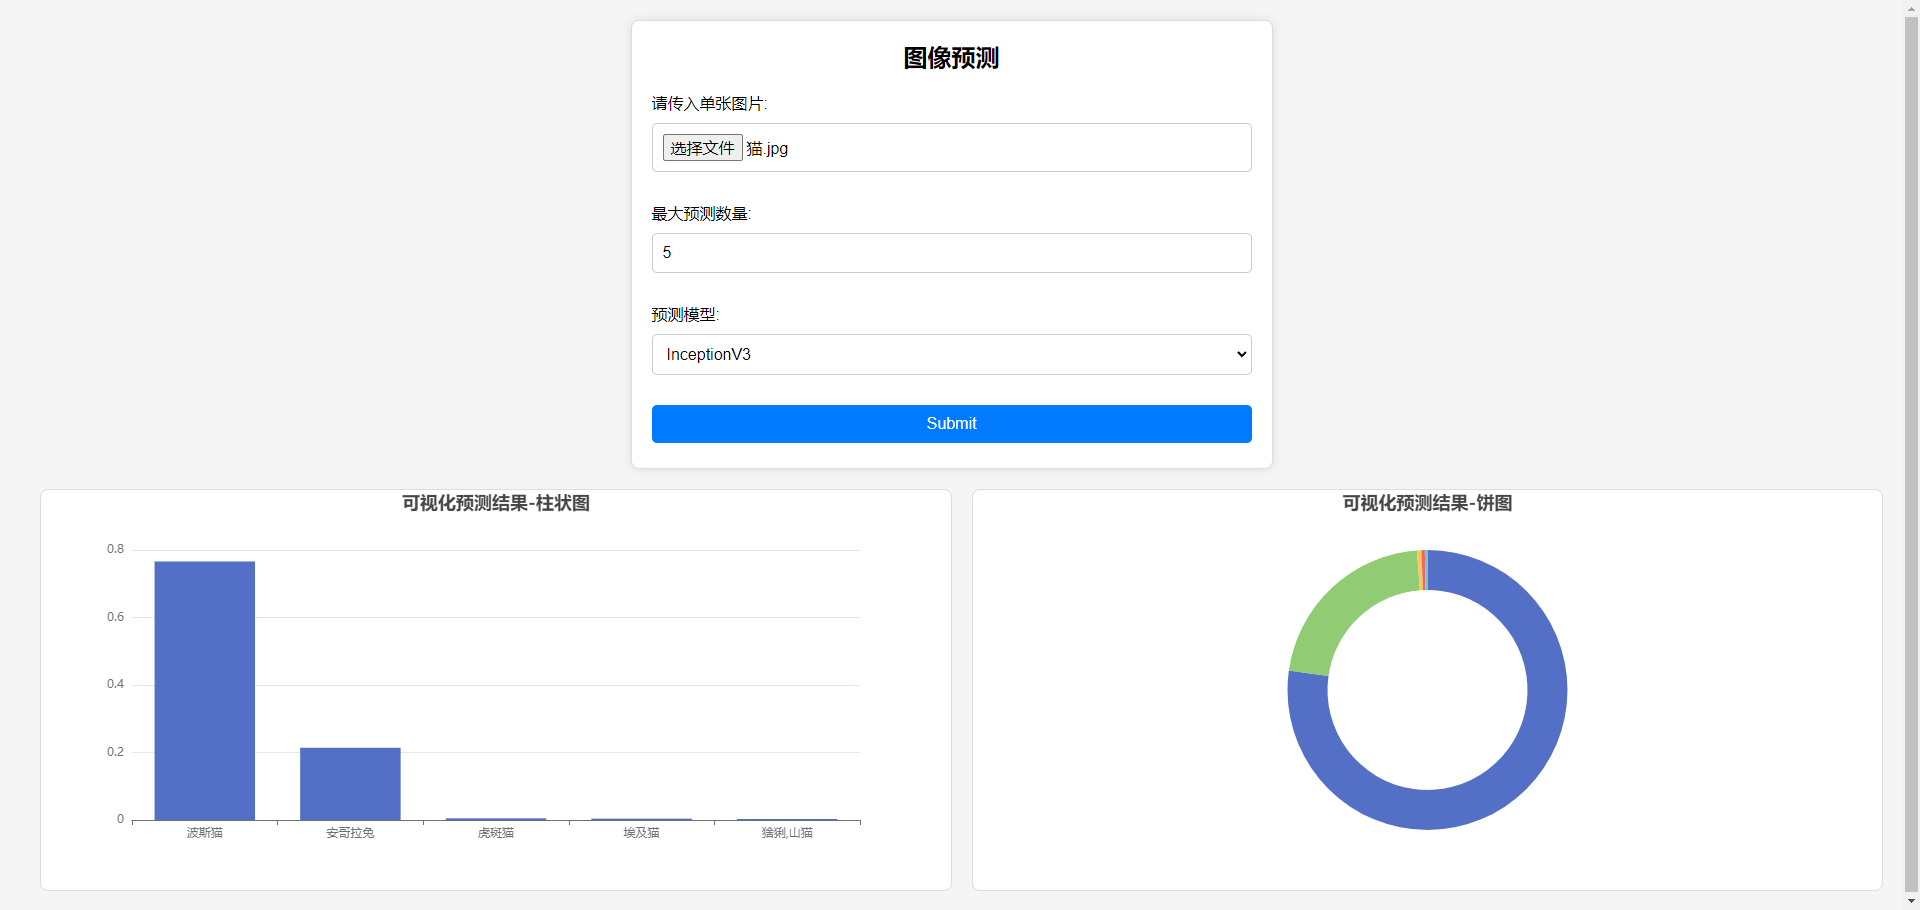
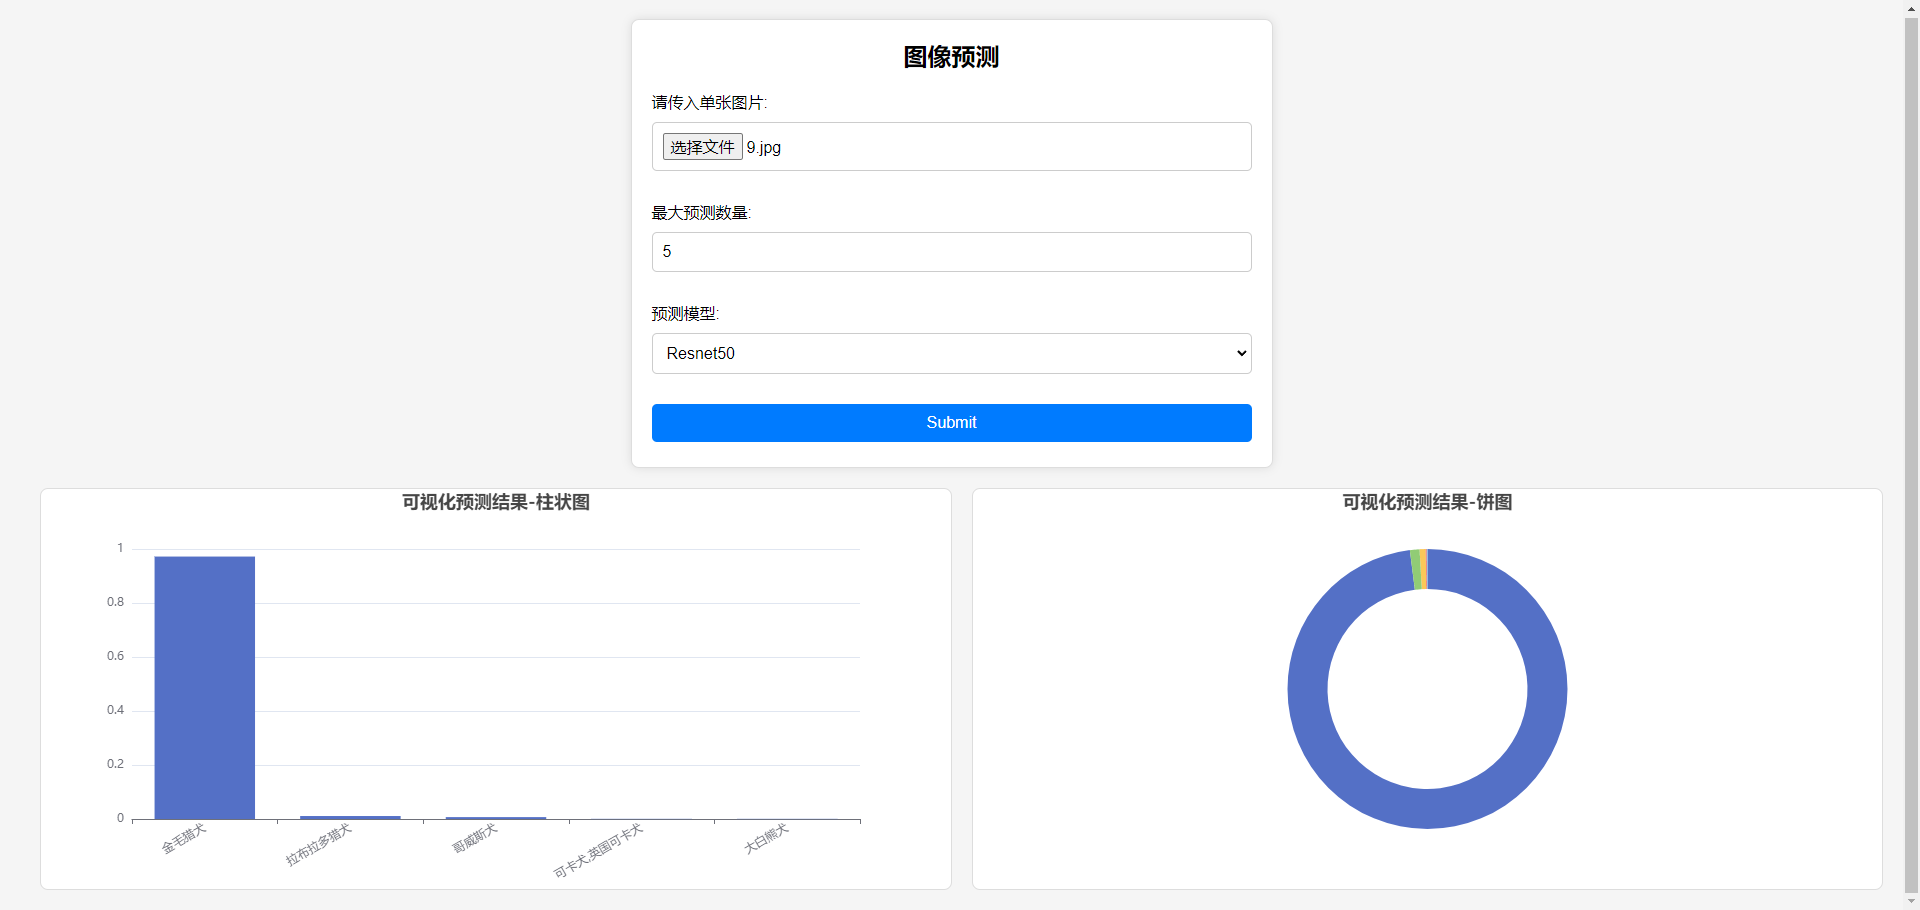
修改代码逻辑，绘图逻辑

diff --git a/core/templates/index.html b/core/templates/index.html
@@ -123,9 +123,11 @@
 
                     tags.forEach(tag => {
                         tagNames.push(tag.tag_name);
+
                         tagConfidences.push(tag.tag_confidence);
                     });
-
+                    console.log(tags)
+                    console.log(tagNames)
                     // 使用 ECharts 生成柱状图
                     const barChart = echarts.init(barChartContainer);
                     const barOption = {
@@ -141,7 +143,10 @@
                         },
                         xAxis: {
                             type: 'category',
-                            data: tagNames
+                            data: tagNames,
+                            axisLabel: {
+                                rotate: 30  // 旋转角度
+                            }
                         },
                         yAxis: {
                             type: 'value'

diff --git a/core/server.py b/core/server.py
@@ -128,6 +128,8 @@ def get_data():
         print("mysql")
         cursor.execute("SELECT path,predictiction,timestamp,model FROM tagprediction")
         mysql_data = cursor.fetchall()
+        if redis_data:
+            redis_data = redis_data[0].decode('utf-8')
 
         # 检查 MySQL 数据是否已经存在于 Redis 中
         for row in mysql_data:
